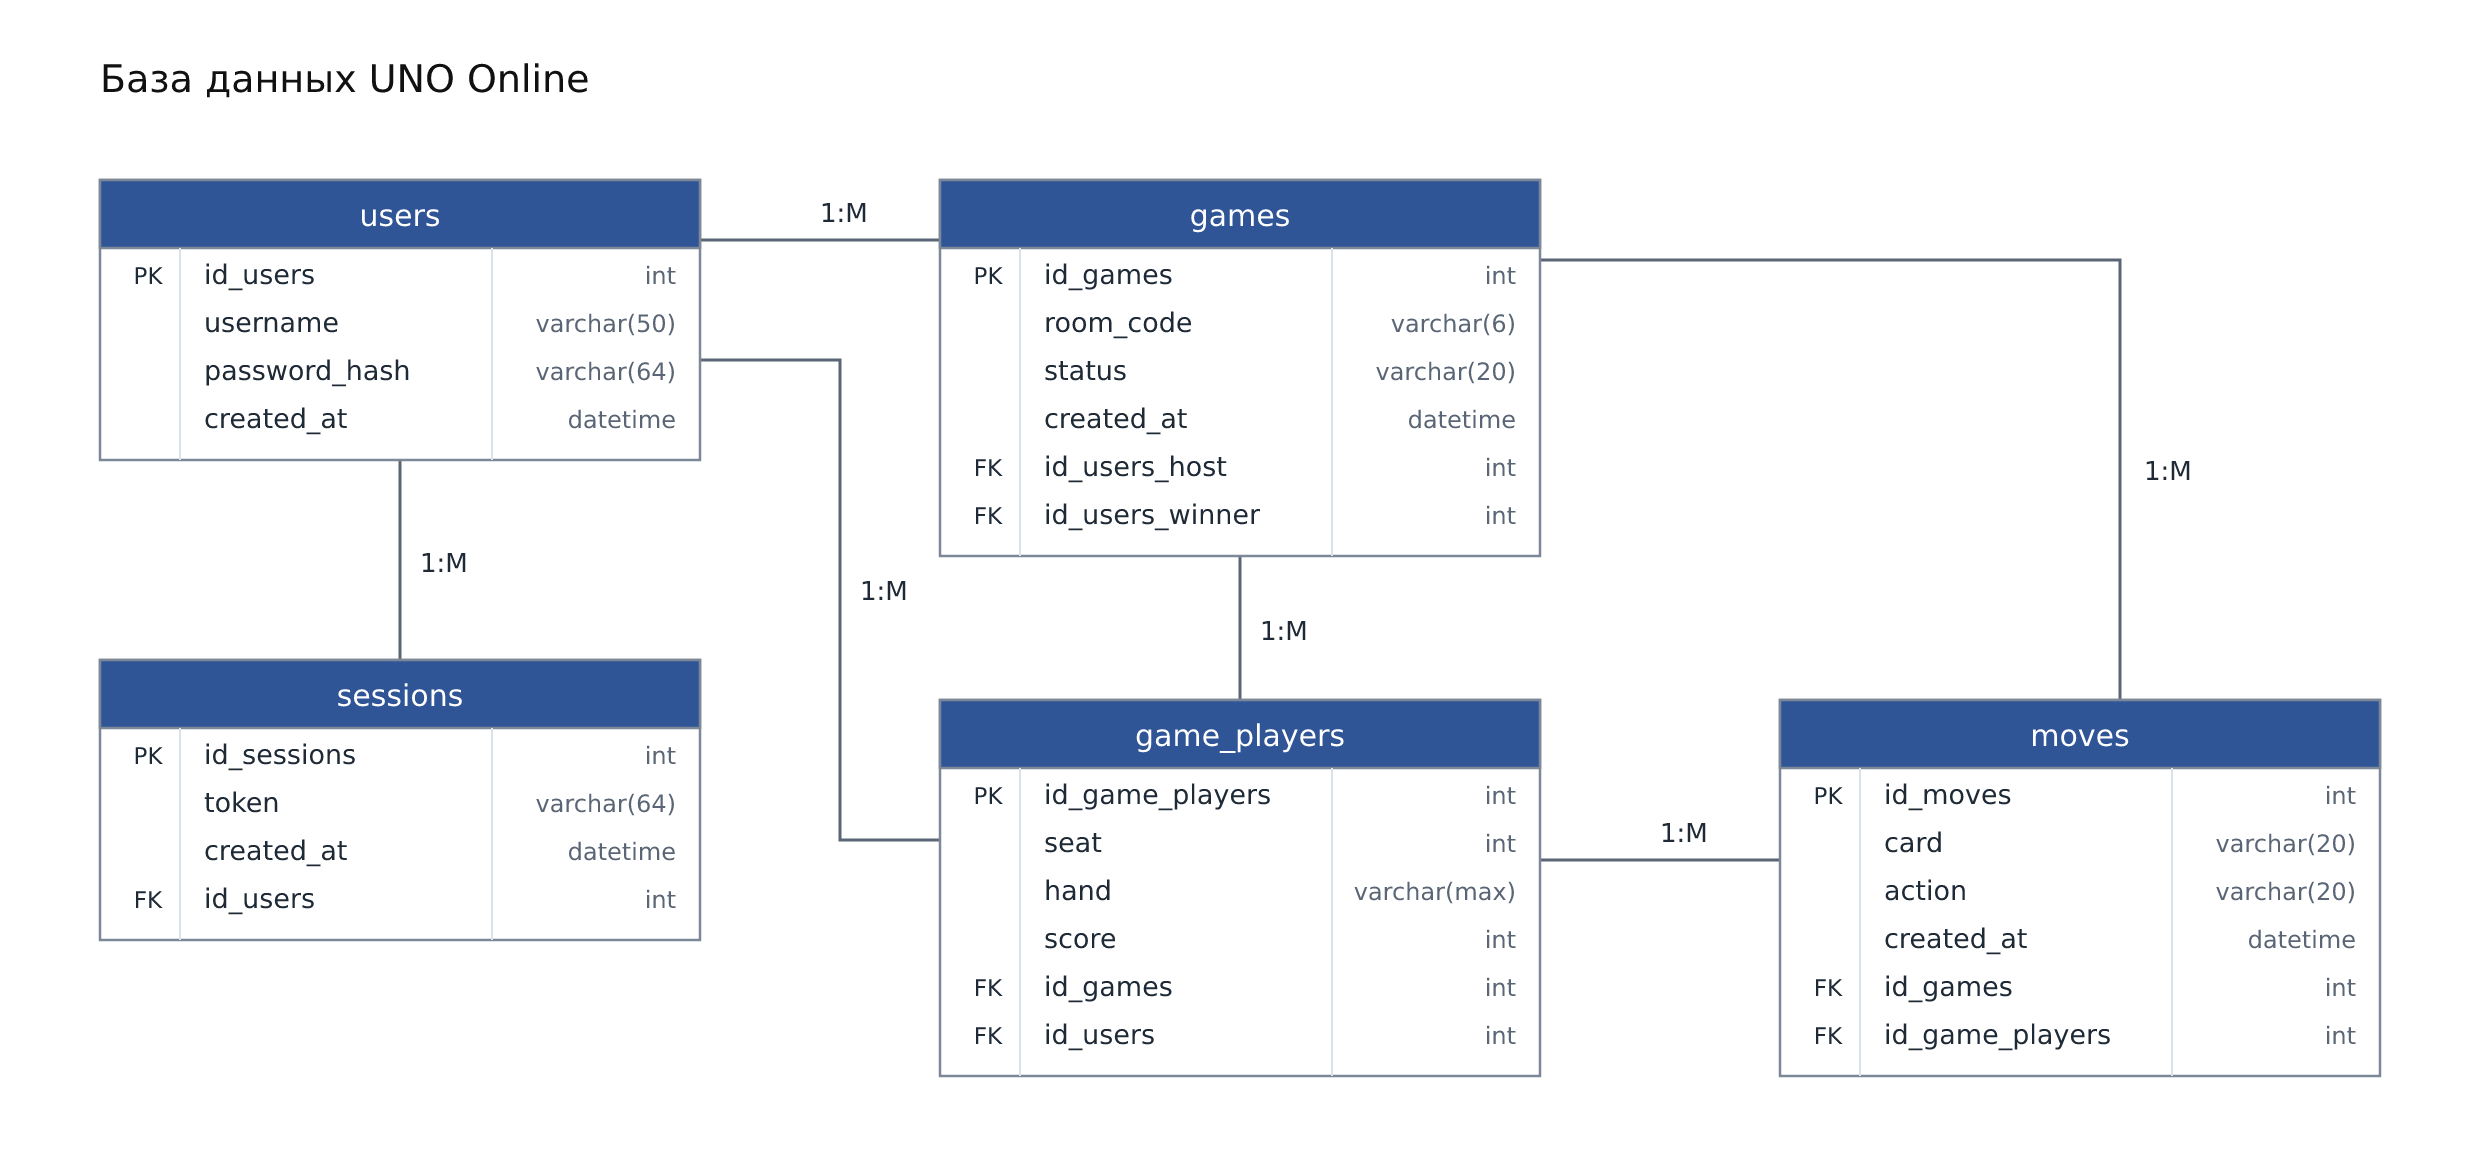
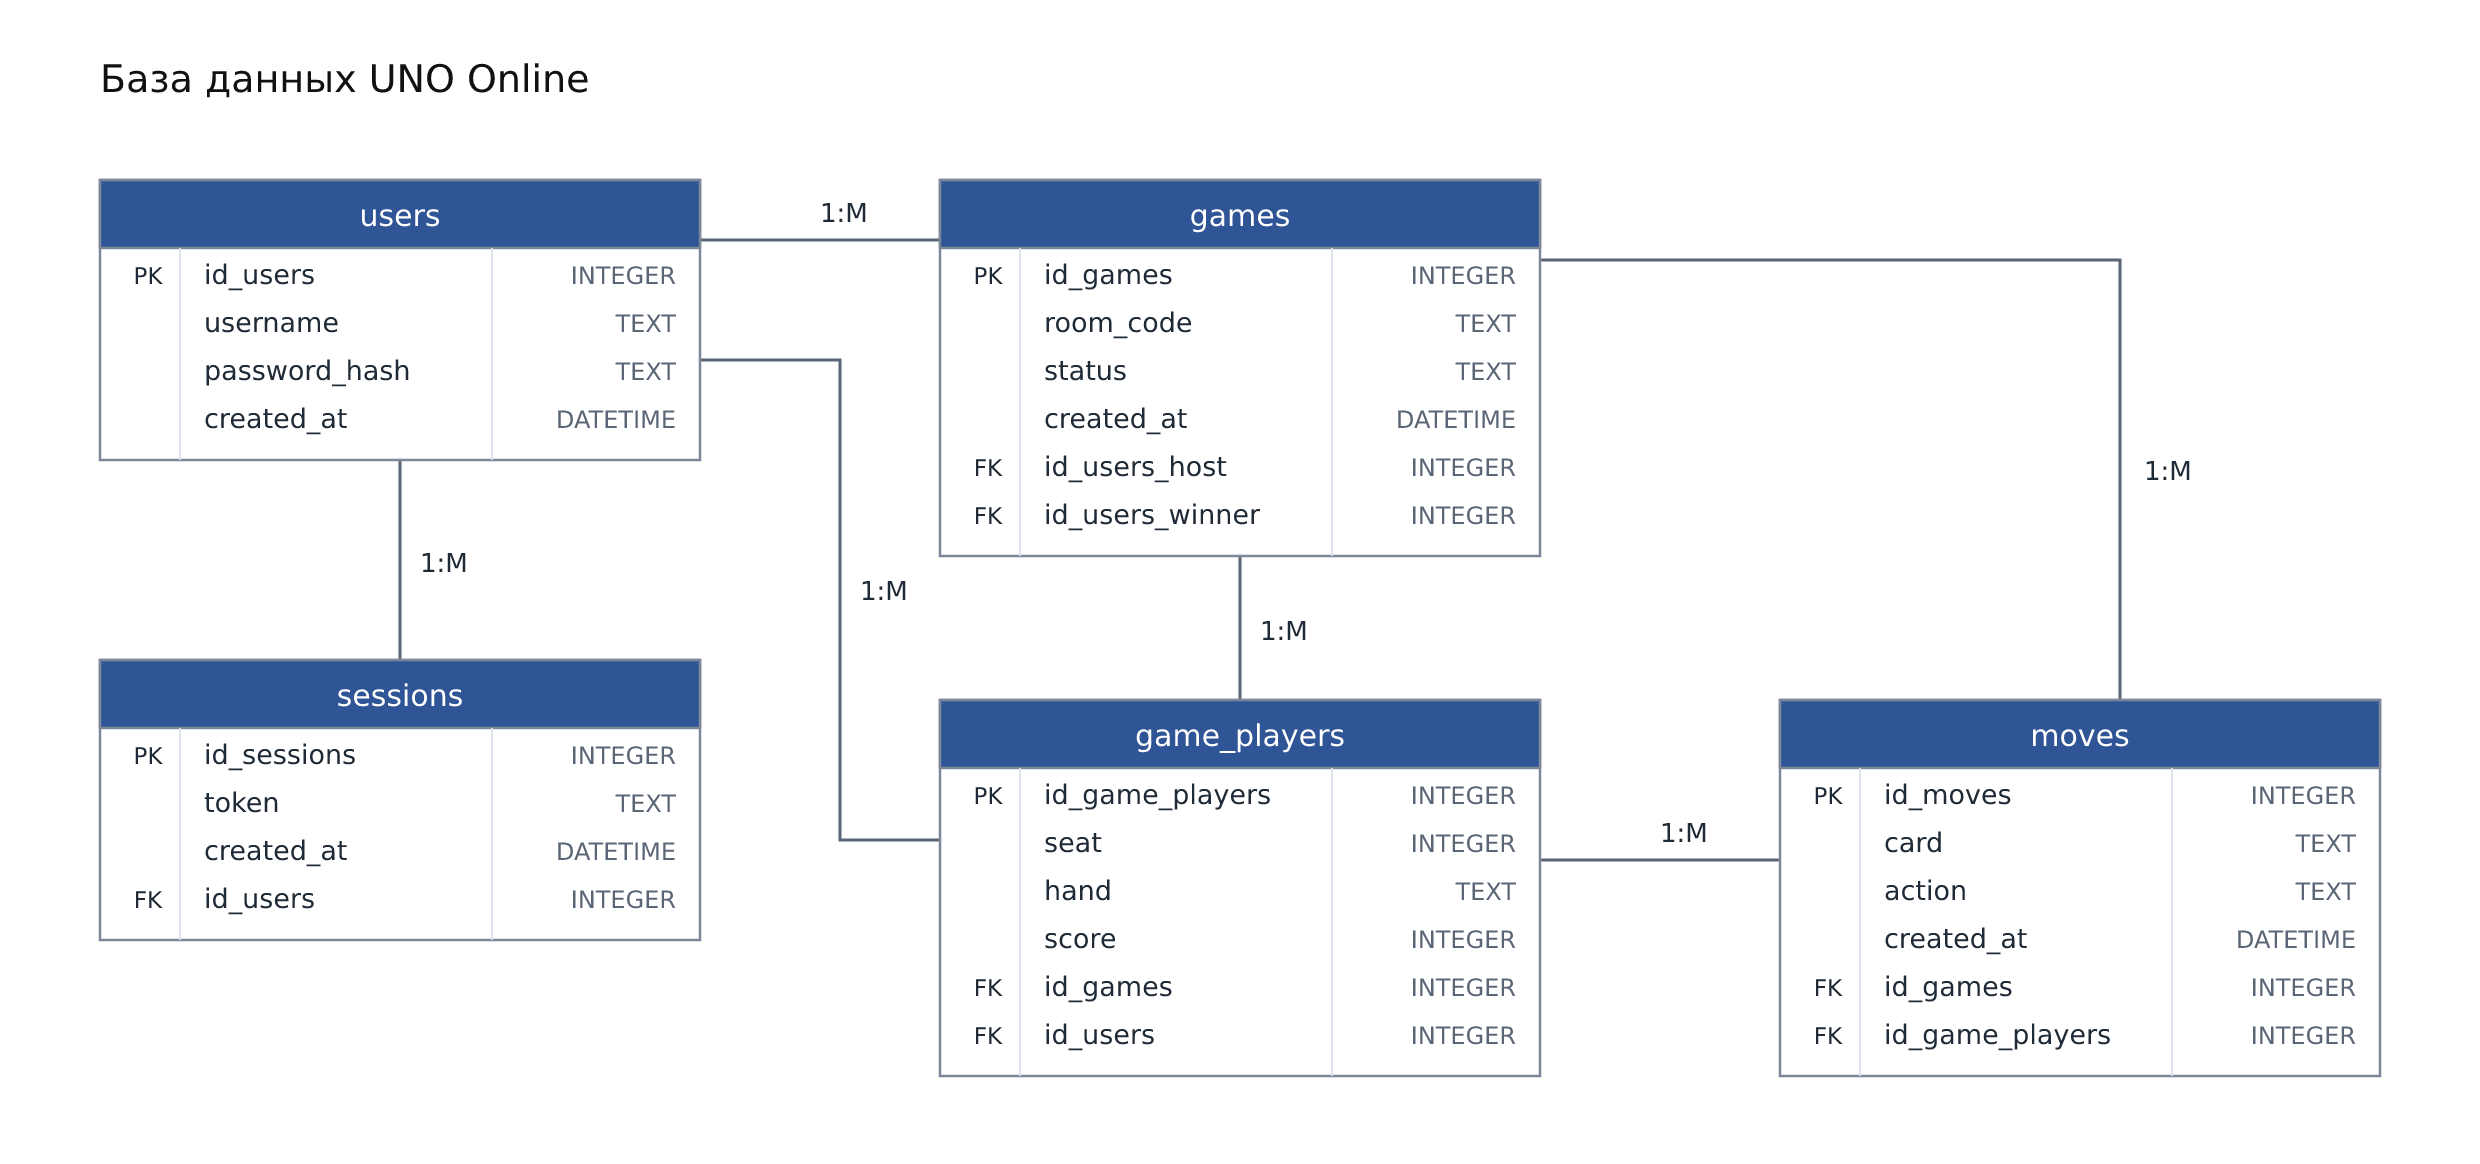
создал колоду и настроил раздачу

diff --git a/game/deck.py b/game/deck.py
@@ -1,0 +1,62 @@
+import random 
+from game.card import Card
+
+COLORS = ["red", "yellow", "green", "blue"]
+ACTION = ["skip", "reverse", "draw2"]
+
+class Deck:
+    def __init__(self):
+        self.cards = []
+        self.build()
+    
+    def build(self): #растановка какрт по цветам на каждый по 25 и 8 чёрных
+        self.cards = []
+        for color in COLORS:
+            self.cards.append(Card(color, "0"))
+            for number in range(1 , 10):
+                self.cards.append(Card(color, str(number)))
+                self.cards.append(Card(color, str(number)))
+        
+            for action in ACTION:
+                self.cards.append(Card(color, action))
+                self.cards.append(Card(color, action))
+        
+        for wild in ["wild", "wild4"]:
+            for i in range(4):
+                self.cards.append(Card("black", wild))
+    
+    def shuffle(self): # Перемешивание
+        random.shuffle(self.cards)
+    
+    def deal(self, count):
+        hand = []
+        for i in range(count):
+            card = self.take()
+            if card is not None:
+                hand.append(card)
+        return hand
+    
+    def take(self): #брать карту сверху колоды 
+        if len(self.cards) == 0: 
+            return None
+        return self.cards.pop()
+    
+    def put_back(self, cards):
+        for card in cards:
+            self.cards.append(card)
+            
+    def left(self):
+        return len(self.cards)
+    
+if __name__ == "__main__":
+    deck = Deck()
+    print(f"Собрали колоду: {deck.left()} карт")
+    deck.shuffle()
+    hand = deck.deal(7)
+    print(f"Раздали семь, осталось: {deck.left()}")
+    for card in hand:
+        print ("  ", card)
+    print(f"Сверху колоды лежит: {deck.take()}")
+    print(f"После добора осталось: {deck.left()}") 
+        
+        

diff --git a/game/card.py b/game/card.py
@@ -3,7 +3,7 @@ SPECIAL_POINTS = {"skip": 20, "reverse": 20, "draw2": 20, "wild": 50, "wild4": 5
 COLOR_NAMES = {
     "red": "красная",
     "yellow": "жёлтая",
-    "gren": "зелёная",
+    "green": "зелёная",
     "blue": "синяя",
     "black": "чёрная",
 }
@@ -12,7 +12,7 @@ VALUE_NAMES = {
     "skip": "пропуск",
     "reverse": "разворот",
     "draw2": "+2",
-    "wirld" : "дикая",
+    "wild" : "дикая",
     "wild4": "дикая +4"
 }
 
@@ -34,6 +34,9 @@ class Card:
             return True
         
         if self.color == current_color:
+            return True
+        
+        if self.value == top_card.value:
             return True
         
         return False
